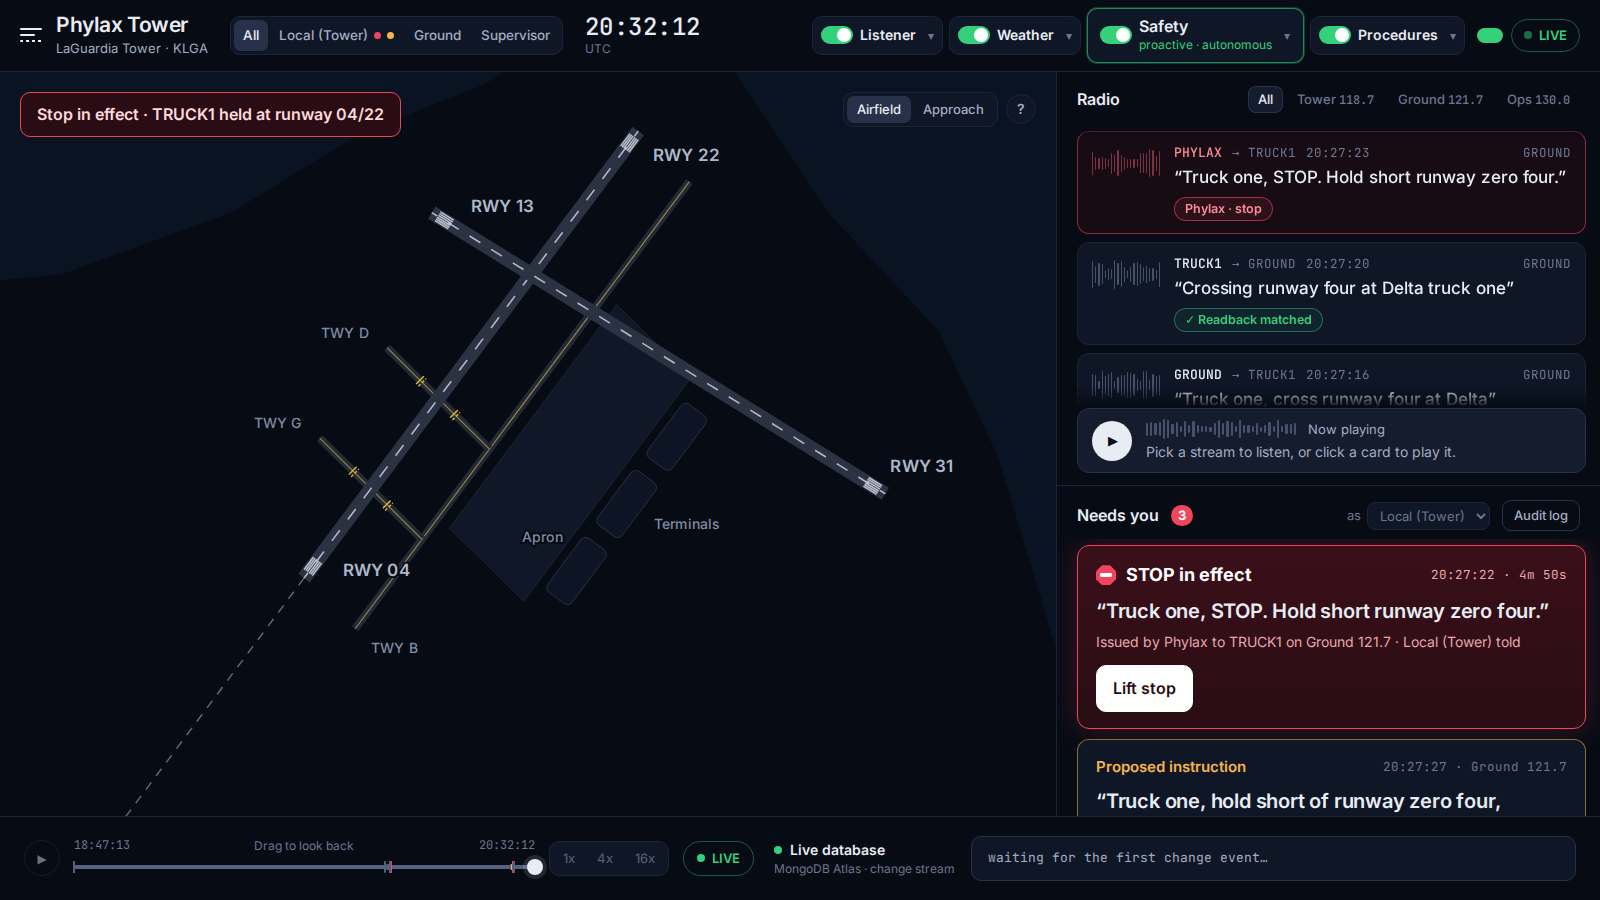
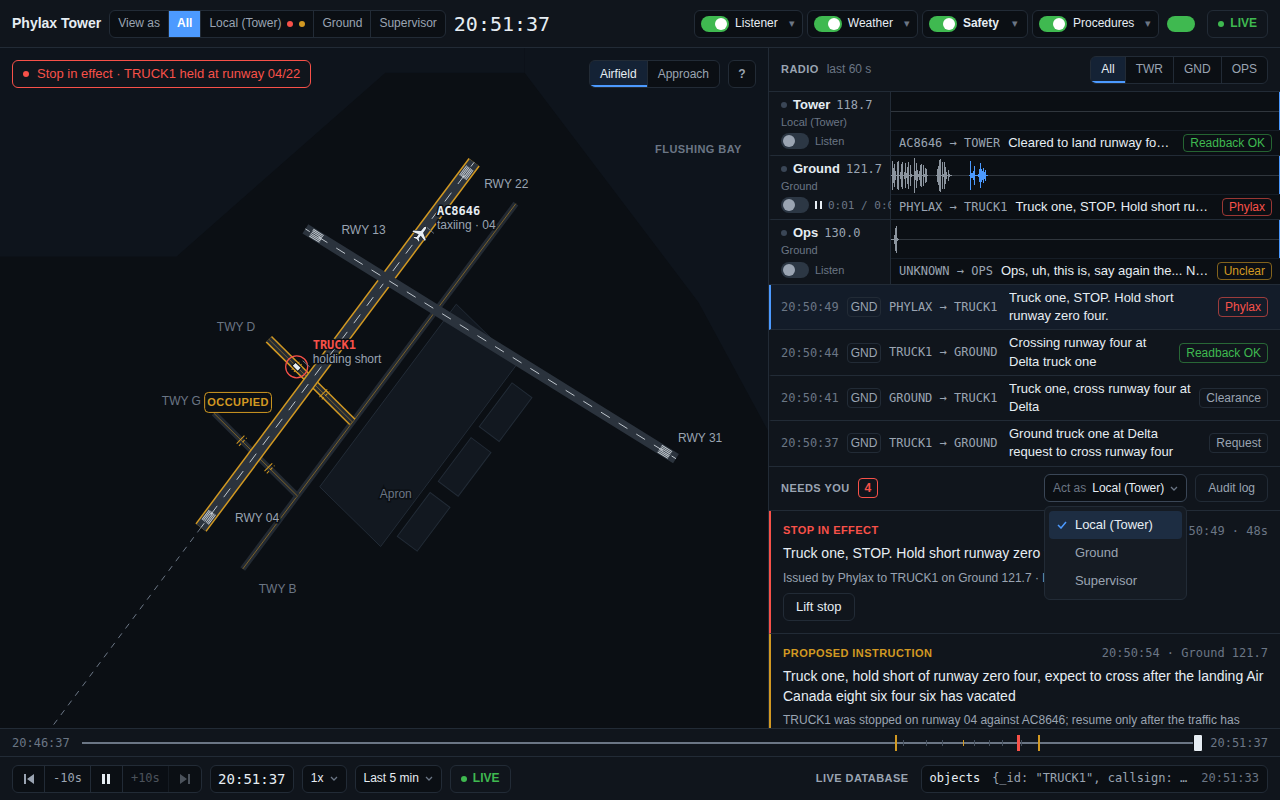
Visualizer: shortcuts work after using a menu, compact elapsed time, updated screenshots

diff --git a/visualizer/web/src/components/Radio.tsx b/visualizer/web/src/components/Radio.tsx
@@ -143,7 +143,7 @@ export function Radio(p: Props) {
       const q = latest.current;
       const T = q.live ? Date.now() : q.viewT;
       const a = q.audioRef.current;
-      if (clock.current && a) clock.current.textContent = a.currentSrc && Number.isFinite(a.duration) ? `${mmss(a.currentTime)} / ${mmss(a.duration)}` : '';
+      if (clock.current && a) clock.current.textContent = a.currentSrc && Number.isFinite(a.duration) ? mmss(a.currentTime) : '';
       const dpr = window.devicePixelRatio || 1;
       for (const s of q.streams) {
         const cv = canvases.current[s._id];
